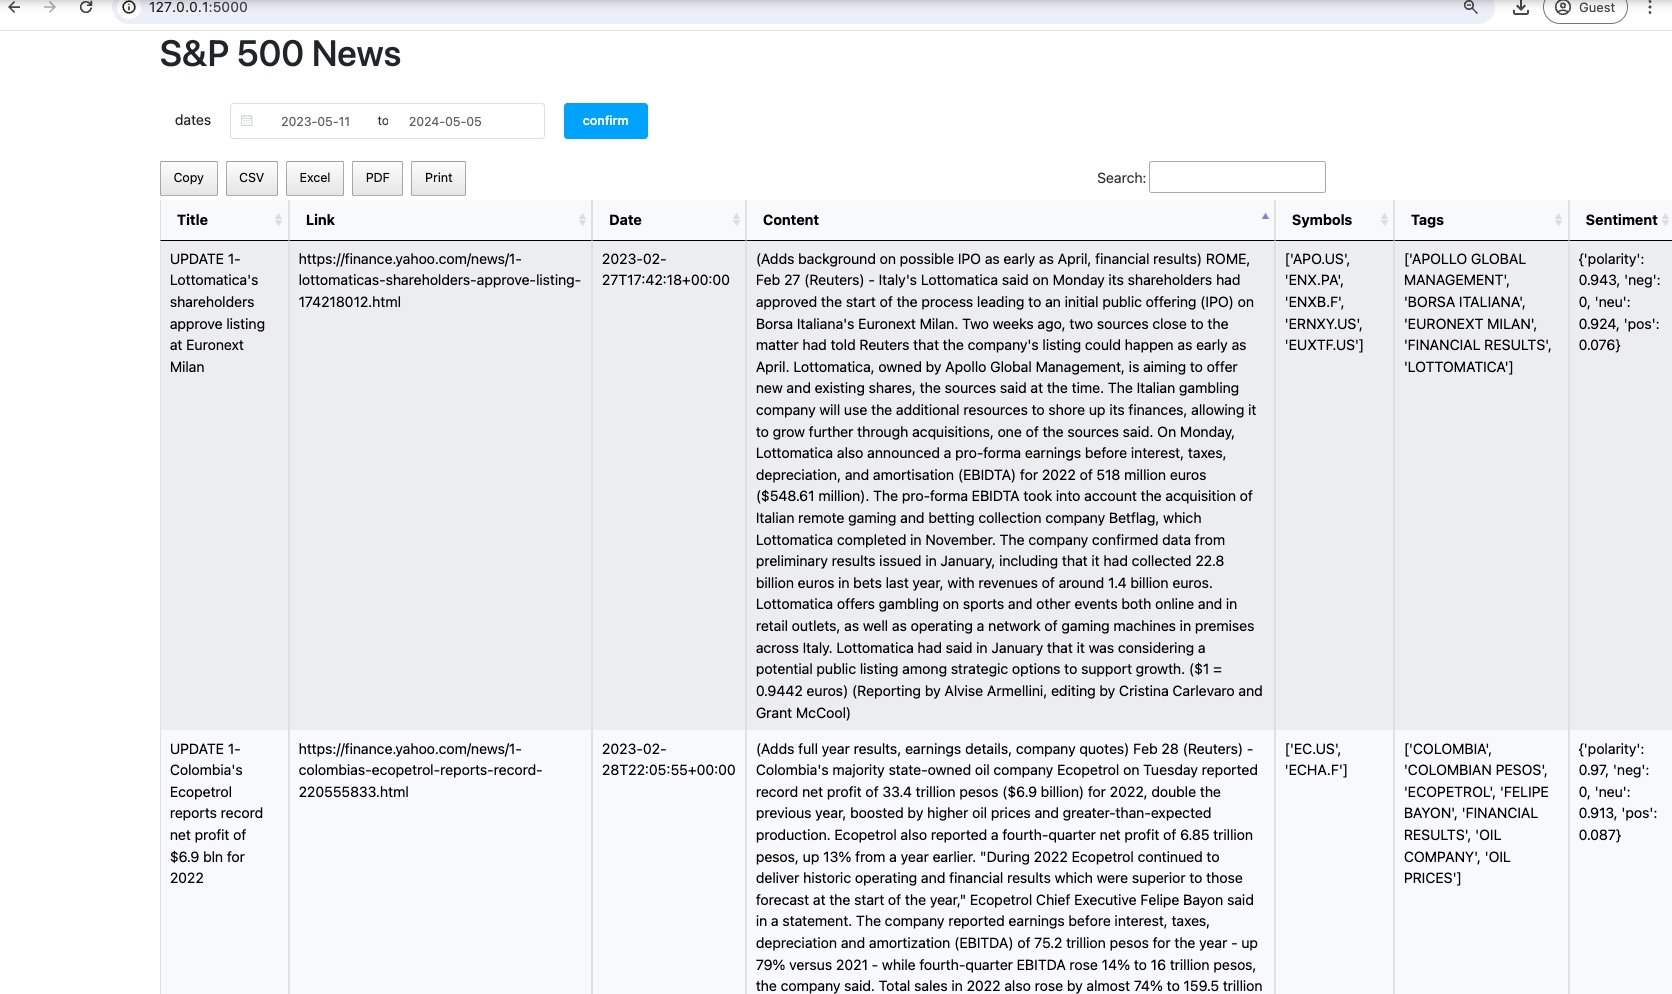
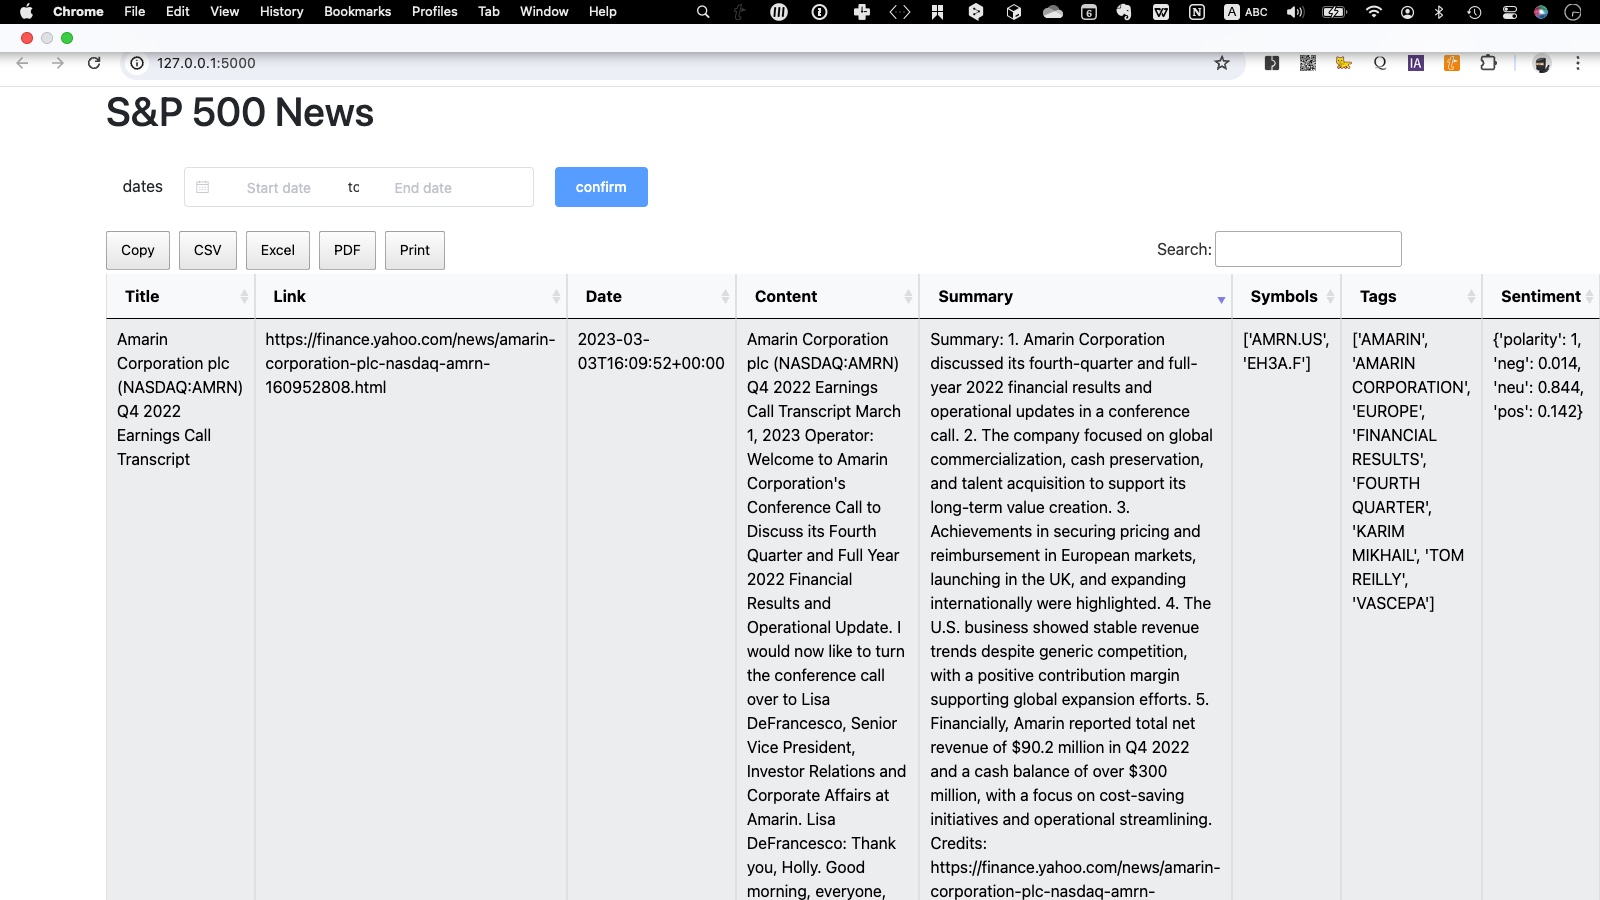
feat: 🎸 adding summary of news with openAI

diff --git a/templates/news.html b/templates/news.html
@@ -84,6 +84,7 @@
             <th>Link</th>
             <th>Date</th>
             <th>Content</th>
+            <th>Summary</th>
             <th>Symbols</th>
             <th>Tags</th>
             <th>Sentiment</th>
@@ -96,6 +97,7 @@
                 <td>{{ exchange.link }}</td>
                 <td>{{ exchange.date }}</td>
                 <td>{{ exchange.content }}</td>
+                                <td>{{ exchange.summary }}</td>
                 <td>{{ exchange.symbols }}</td>
                 <td>{{ exchange.tags }}</td>
                 <td>{{ exchange.sentiment }}</td>

diff --git a/api/financial_data.py b/api/financial_data.py
@@ -1,7 +1,12 @@
 # api/financial_data.py
-
 import json
 from eodhd import APIClient
+import openai
+from openai import OpenAI
+from flask import Flask, redirect, render_template, request, url_for
+from config import OPENAI_KEY
+
+client = OpenAI(api_key=OPENAI_KEY)
 
 
 class EODHDAPIsDataFetcher:
@@ -21,9 +26,15 @@ class EODHDAPIsDataFetcher:
     def fetch_news(self):
         try:
             api = APIClient(self._api_token)
-            df = api.financial_news(from_date="2022-12-10", to_date="2023-04-10", t="financial results",
-                                               offset="200", limit="100")
-            return df
+            news_list = api.financial_news(from_date="2022-12-10", to_date="2023-04-10", t="financial results",
+                                           offset="200", limit="1")
+
+            df_with_summary = []
+            for news in news_list:
+                news_with_summary = self.fetch_summary_news(news)
+                df_with_summary.append(news_with_summary)
+
+            return df_with_summary
 
         except Exception as e:
             print(f"Error fetching data: {e}")
@@ -39,14 +50,39 @@ class EODHDAPIsDataFetcher:
             print(f"Error fetching data: {e}")
             return None
 
-    def fetch_exchange_market_data(self, code: str = "", market: str = "", granularity: str = ""):
+    def generate_news_prompt(self, news):
+        prompt = f"Summarize the following news article titled '{news['title']}' with content limited to 100 words, \
+                   in approximately four to five points. Also, give credits to {news['link']}\n\
+                   The detailed article: {news['content']}"
+        return prompt
+
+    def fetch_summary_news(self, news):
         try:
-            api = APIClient(self._api_token)
-            df = api.get_historical_data(f"{market}.{code}", granularity)
-            df["datetime"] = df.index.astype(str)
-            print(df)
-            return json.loads(df.to_json(orient="records"))
+            # Call to the OpenAI API
+            prompt = self.generate_news_prompt(news)
+            response = client.chat.completions.create(
+                model="gpt-3.5-turbo",
+                messages=[{"role": "user", "content": prompt}],
+                temperature=0.6
+            )
+            summary = response.choices[0].message.content
+            news['summary'] = summary  # Add the summary to the news dictionary
+            return news
 
         except Exception as e:
-            print(f"Error fetching data: {e}")
-            return None
+            print(f"An error occurred: {e}")
+            news['summary'] = "Failed to fetch summary."
+            return news
+
+
+def fetch_exchange_market_data(self, code: str = "", market: str = "", granularity: str = ""):
+    try:
+        api = APIClient(self._api_token)
+        df = api.get_historical_data(f"{market}.{code}", granularity)
+        df["datetime"] = df.index.astype(str)
+        print(df)
+        return json.loads(df.to_json(orient="records"))
+
+    except Exception as e:
+        print(f"Error fetching data: {e}")
+        return None

diff --git a/README.md b/README.md
@@ -23,6 +23,12 @@ Create a config.py file in the project root containing your EODHD APIs token.
 
 
  ```Java
+ python -m venv .venv
+ . .venv/bin/activate
+ . .venv/bin/activate
+  pip install -r requirements.txt
+  import openai
+  
 python app.py --host 0.0.0.0 --port 5000 --debug                
 
  ```
